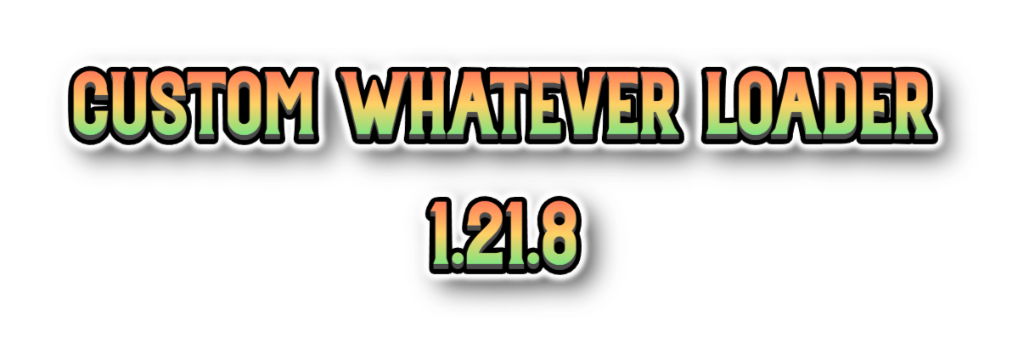
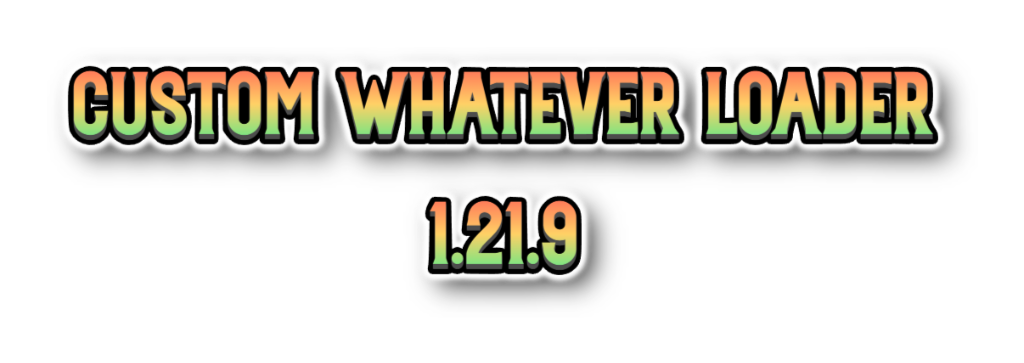
feat(CWL): support asmr sound tags

Changed region(s): [[0.4062, 0.5455, 0.5938, 0.7576]]

diff --git a/CustomWhateverLoader/Patches/Sounds/AudibleTopicTextPatch.cs b/CustomWhateverLoader/Patches/Sounds/AudibleTopicTextPatch.cs
@@ -1,6 +1,4 @@
-using System.Collections.Generic;
-using System.Reflection.Emit;
-using System.Text.RegularExpressions;
+using System.Text.RegularExpressions;
 using Cwl.Helper.Extensions;
 using HarmonyLib;
 
@@ -9,28 +7,14 @@ namespace Cwl.Patches.Sounds;
 [HarmonyPatch]
 internal class AudibleTopicTextPatch
 {
-    [HarmonyTranspiler]
-    [HarmonyPatch(typeof(Chara), nameof(Chara.GetTopicText))]
-    internal static IEnumerable<CodeInstruction> OnTopicTextIl(IEnumerable<CodeInstruction> instructions)
-    {
-        return new CodeMatcher(instructions)
-            .End()
-            .MatchEndBackwards(
-                new OperandContains(OpCodes.Call, nameof(ClassExtension.RandomItem)),
-                new(OpCodes.Ret))
-            .EnsureValid("random topic text")
-            .InsertAndAdvance(
-                new(OpCodes.Ldarg_0),
-                Transpilers.EmitDelegate(TryPlaySoundText))
-            .InstructionEnumeration();
-    }
-
-    private static string TryPlaySoundText(string text, Chara chara)
+    [HarmonyPrefix]
+    [HarmonyPatch(typeof(CardRenderer), nameof(CardRenderer.Say))]
+    internal static void OnExtractSoundTags(CardRenderer __instance, ref string text)
     {
         var match = Regex.Match(text, "<sound=([^>]+)>");
 
         if (!match.Success || match.Groups.Count <= 1) {
-            return text;
+            return;
         }
 
         var soundExpr = match.Groups[1].Value.Split(',');
@@ -38,9 +22,23 @@ internal class AudibleTopicTextPatch
 
         if (soundExpr.TryGet(1, true) is not { } chance ||
             EClass.rndf(1f) <= chance.AsFloat(1f)) {
-            chara.PlaySound(soundId);
+
+            __instance.owner.PlaySound(soundId);
         }
 
-        return text.Remove(match.Index, match.Length);
+        text = text.Remove(match.Index, match.Length);
+    }
+
+    [HarmonyPrefix]
+    [HarmonyPatch(typeof(Msg), nameof(Msg.SayRaw))]
+    internal static void OnSayRawTaggedMsg(ref string text)
+    {
+        var match = Regex.Match(text, "<sound=([^>]+)>");
+
+        if (!match.Success || match.Groups.Count <= 1) {
+            return;
+        }
+
+        text = text.Remove(match.Index, match.Length);
     }
 }

diff --git a/CustomWhateverLoader/Loader/CustomWhateverLoader.cs b/CustomWhateverLoader/Loader/CustomWhateverLoader.cs
@@ -21,7 +21,7 @@ public static class ModInfo
     public const string Guid = "dk.elinplugins.customdialogloader";
     public const string Name = "Custom Whatever Loader";
 
-    public const string Version = "1.21.8";
+    public const string Version = "1.21.9";
 
     // for runtime versions
     public static string BuildVersion => field ??= CwlMod.Assembly.GetName().Version.ToString();
